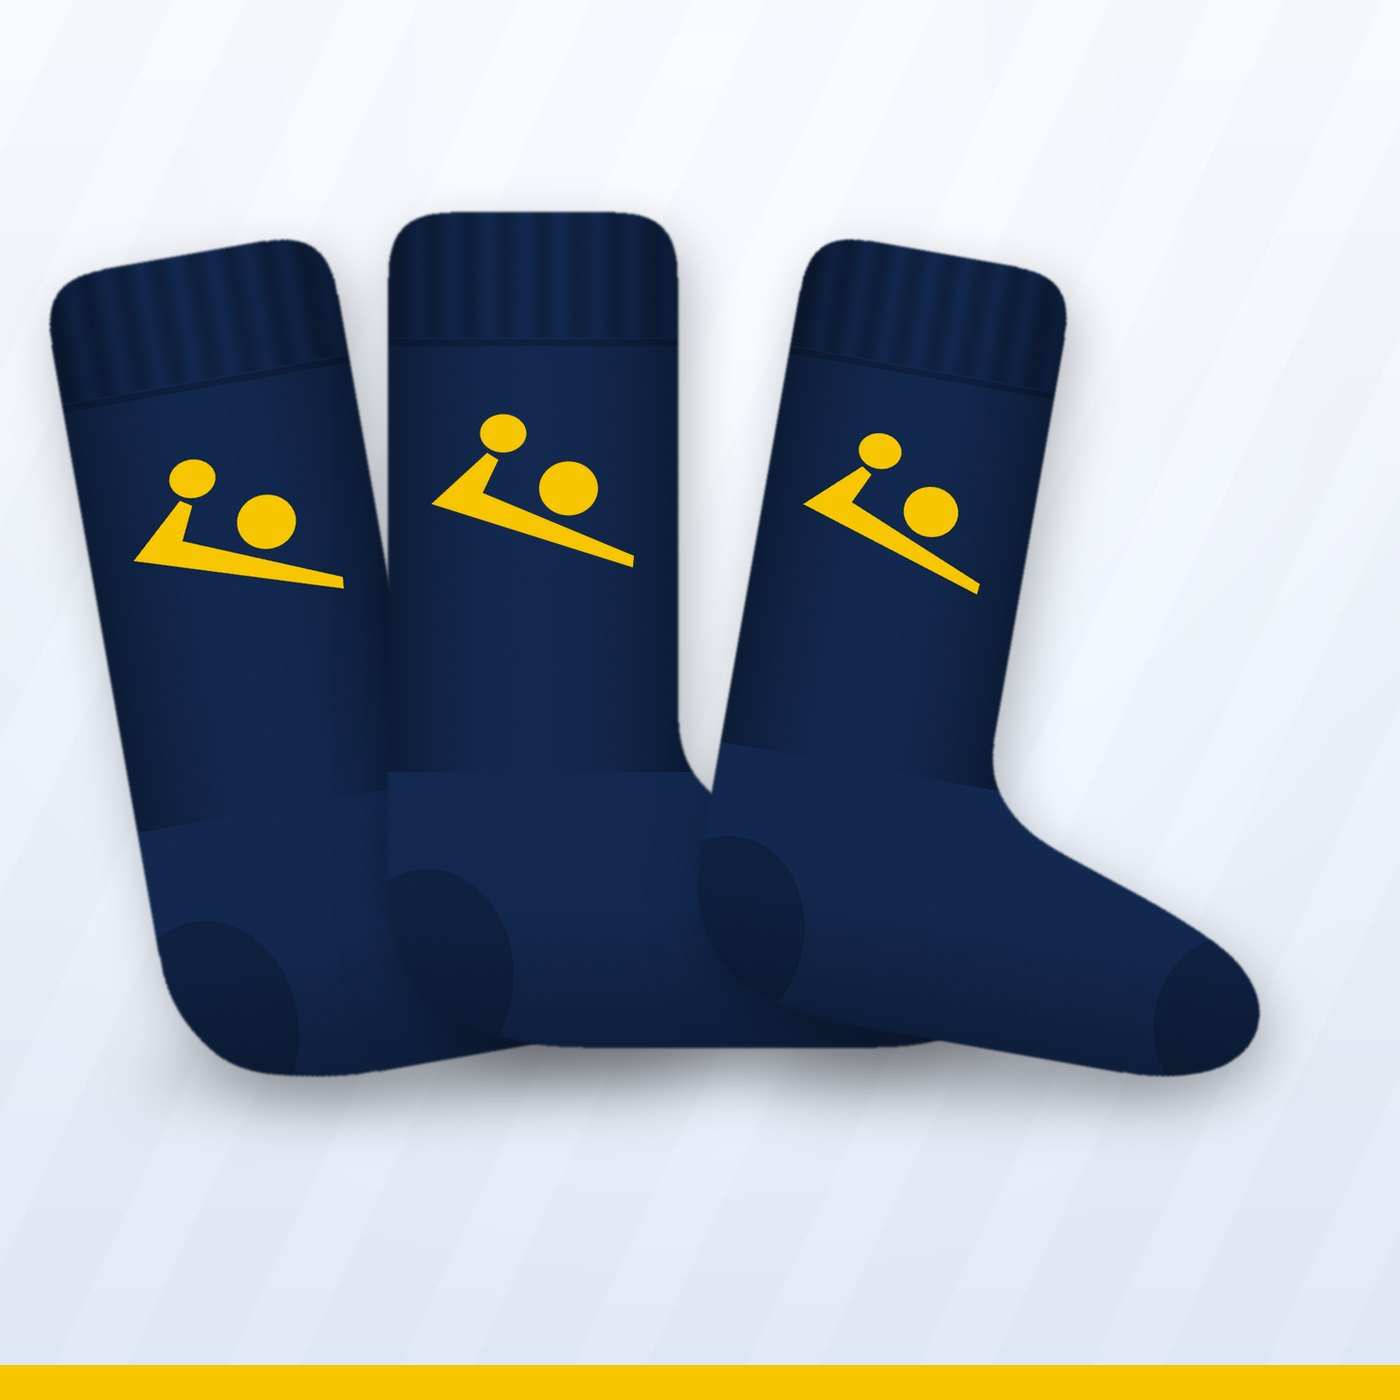
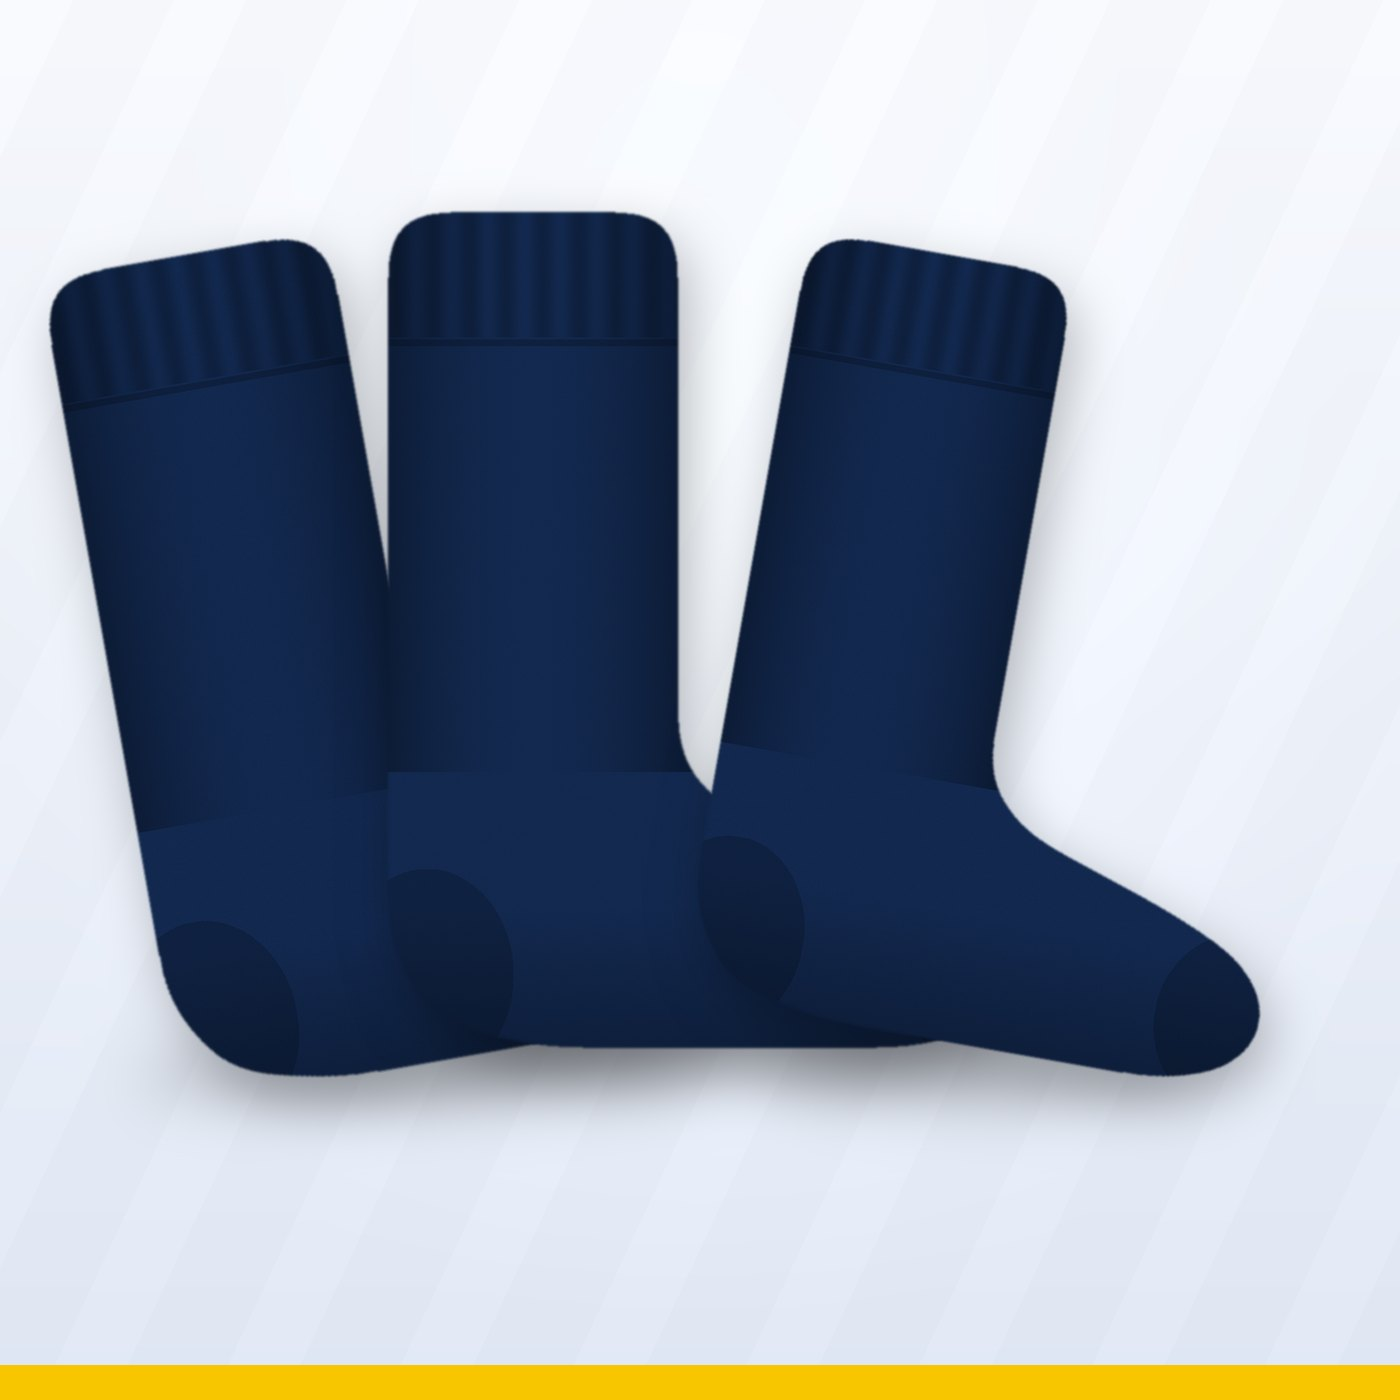
Meias lisas, sem o símbolo do Camões
Claude-Session: https://claude.ai/code/session_01CYXiLtVvoxdWRdnvMfLoHt

Changed region(s): [[0.0921, 0.3071, 0.2457, 0.43], [0.3071, 0.2764, 0.4607, 0.3993], [0.5836, 0.3071, 0.7064, 0.43]]

diff --git a/src/lib/catalog.ts b/src/lib/catalog.ts
@@ -14,7 +14,7 @@ export const CATEGORIES: { id: CategoryId; name: string; description: string }[]
   { id: "equipamentos", name: "Equipamentos oficiais", description: "Os equipamentos de jogo do Camões, personalizáveis com nome e número." },
   { id: "kit-saida", name: "Kit saída", description: "Polo, t-shirt e fato de treino do clube para deslocações e o dia a dia." },
   { id: "agasalhos", name: "Agasalhos", description: "Casacos, blusão de inverno e sweatshirts do clube, com ou sem capuz." },
-  { id: "acessorios", name: "Acessórios", description: "Equipamento de treino (completo ou em peças), calças de fato de treino, quarter zip, meias, mochila, camisola e colete térmicos e cachecol." },
+  { id: "acessorios", name: "Acessórios", description: "Equipamento de treino (completo ou em peças), quarter zip, meias, mochila, camisola e colete térmicos e cachecol." },
 ];
 
 export const KIDS_SIZES = ["4 anos", "6 anos", "8 anos", "10 anos", "12 anos", "14 anos"];
@@ -198,7 +198,7 @@ export const PRODUCTS: Product[] = [
     slug: "pack-meias",
     name: "Pack de meias (3 pares)",
     category: "acessorios",
-    description: "Pack com 3 pares de meias com o símbolo do Camões Andebol em amarelo. Disponível em preto ou azul-escuro.",
+    description: "Pack com 3 pares de meias lisas, sem símbolo. Disponível em preto ou azul-escuro.",
     priceCents: 800,
     sizes: SOCK_SIZES,
     colors: ["Preto", "Azul-escuro"],
@@ -207,8 +207,8 @@ export const PRODUCTS: Product[] = [
     featured: false,
     active: true,
     images: [
-      { src: "/fotos/meias-preto.jpg", alt: "Pack de 3 pares de meias pretas com o símbolo do Camões Andebol em amarelo", color: "Preto" },
-      { src: "/fotos/meias-azul-escuro.jpg", alt: "Pack de 3 pares de meias azul-escuras com o símbolo do Camões Andebol em amarelo", color: "Azul-escuro" },
+      { src: "/fotos/meias-preto.jpg", alt: "Pack de 3 pares de meias pretas lisas", color: "Preto" },
+      { src: "/fotos/meias-azul-escuro.jpg", alt: "Pack de 3 pares de meias azul-escuras lisas", color: "Azul-escuro" },
     ],
   },
   {

diff --git a/scripts/build_product_images.py b/scripts/build_product_images.py
@@ -253,7 +253,7 @@ def apply_symbol(a, mask, cx, cy, width, color):
 
 def make_sock(color, dark_logo, S=4):
     """Desenha uma meia desportiva (cano, calcanhar e biqueira reforçados, punho canelado)
-    com o símbolo do Camões no cano. Devolve (rgb, máscara)."""
+    lisa, sem símbolo. Devolve (rgb, máscara)."""
     W, H = 900 * S // 4, 1100 * S // 4
     k = S / 4
     pts = [(170, 40), (470, 40), (470, 610), (520, 660), (700, 720), (790, 760), (830, 820), (800, 880),
@@ -281,7 +281,6 @@ def make_sock(color, dark_logo, S=4):
     # linha do punho
     rgb[(np.abs(yy - 175) < 4)] *= 0.8
     rgb = np.clip(rgb, 0, 1)
-    rgb = apply_symbol(rgb, mask, 320 / 900, 330 / 1100, 0.24, YELLOW)  # só a figura, em amarelo
     ys, xs = np.where(mask > 0.02)  # cortar o espaço vazio à volta (para a sombra ficar junto à meia)
     sl = (slice(ys.min(), ys.max() + 1), slice(xs.min(), xs.max() + 1))
     return rgb[sl], mask[sl]
@@ -523,7 +522,7 @@ if __name__ == "__main__":
 
     # Calças de fato de treino — ver bloco do fato de treino (só preto)
 
-    # Pack de 3 meias — preto e azul-escuro (desenhadas: não há fotografia do fornecedor)
+    # Pack de 3 meias — preto e azul-escuro, lisas, sem símbolo (desenhadas: não há fotografia do fornecedor)
     for slug, color, dark in [("preto", BLACK, False), ("azul-escuro", NAVY, False)]:
         sock, msk = make_sock(color, dark)
         c = background()
